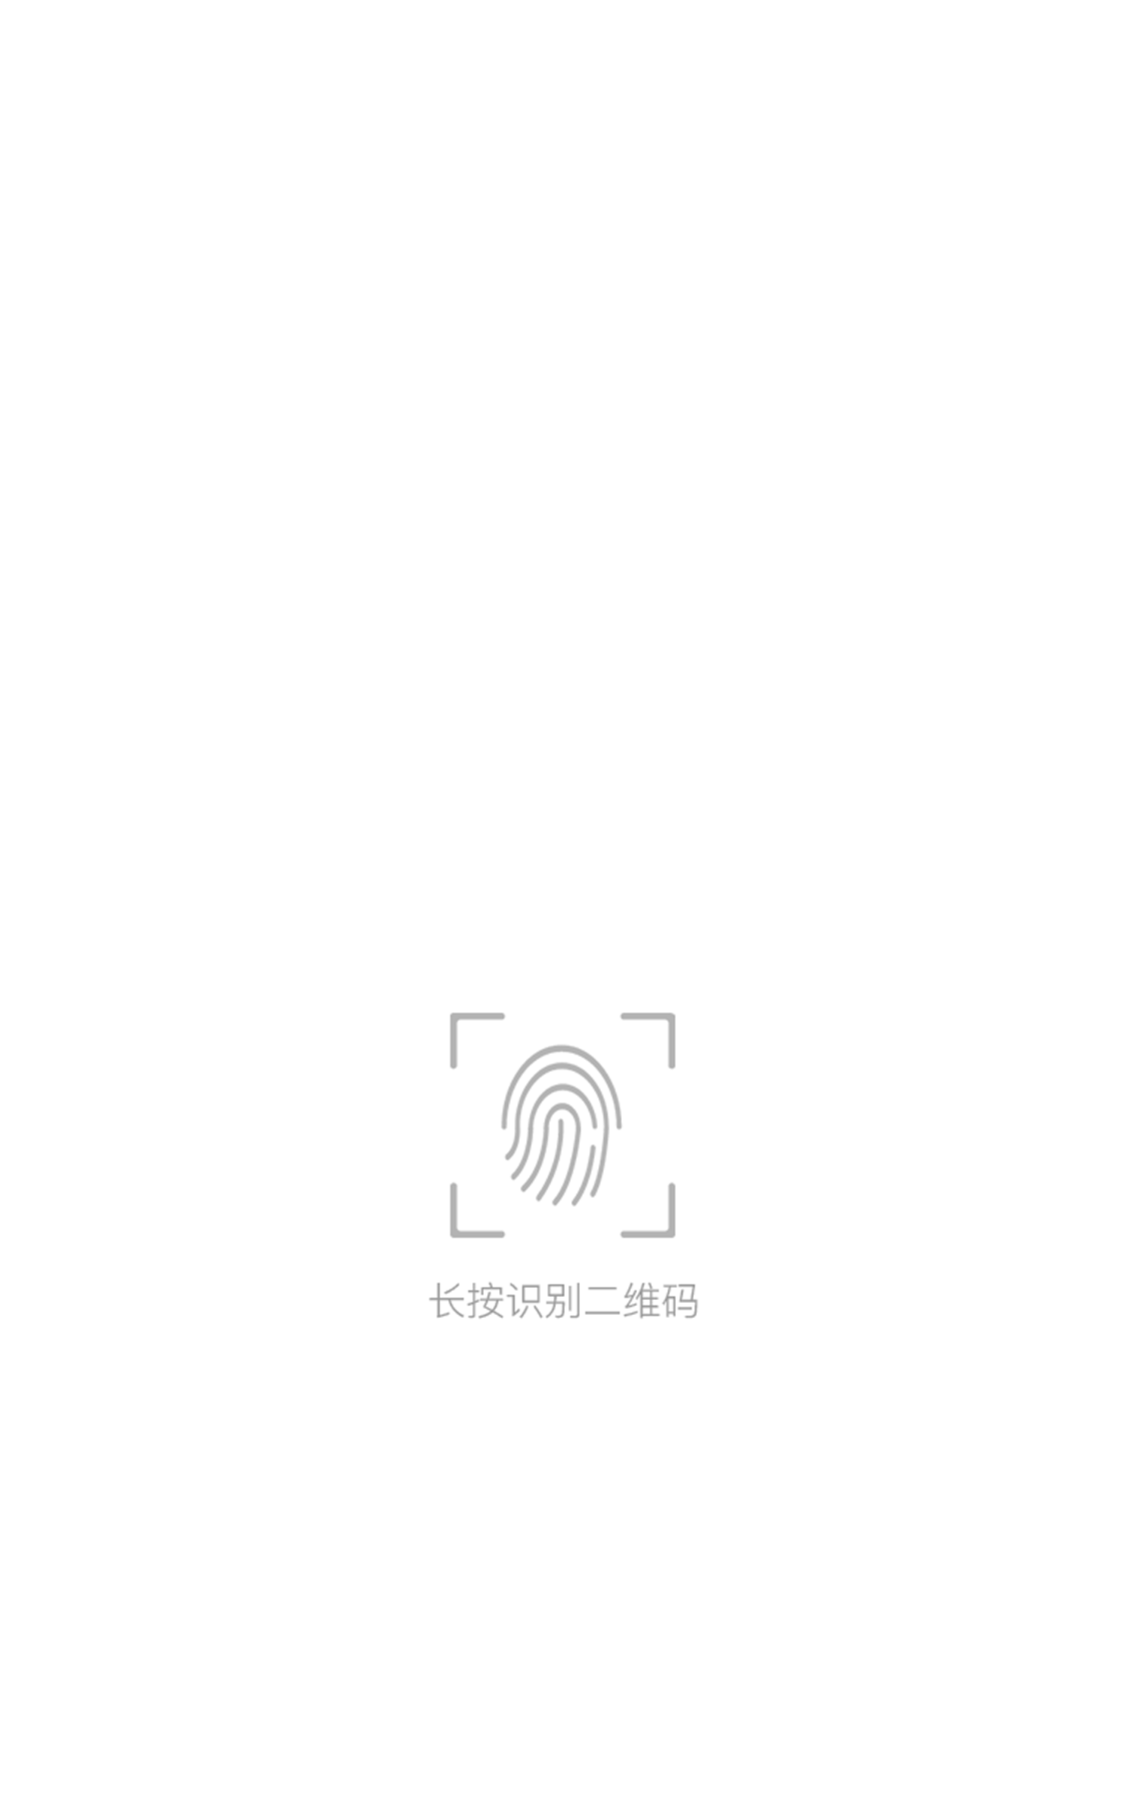
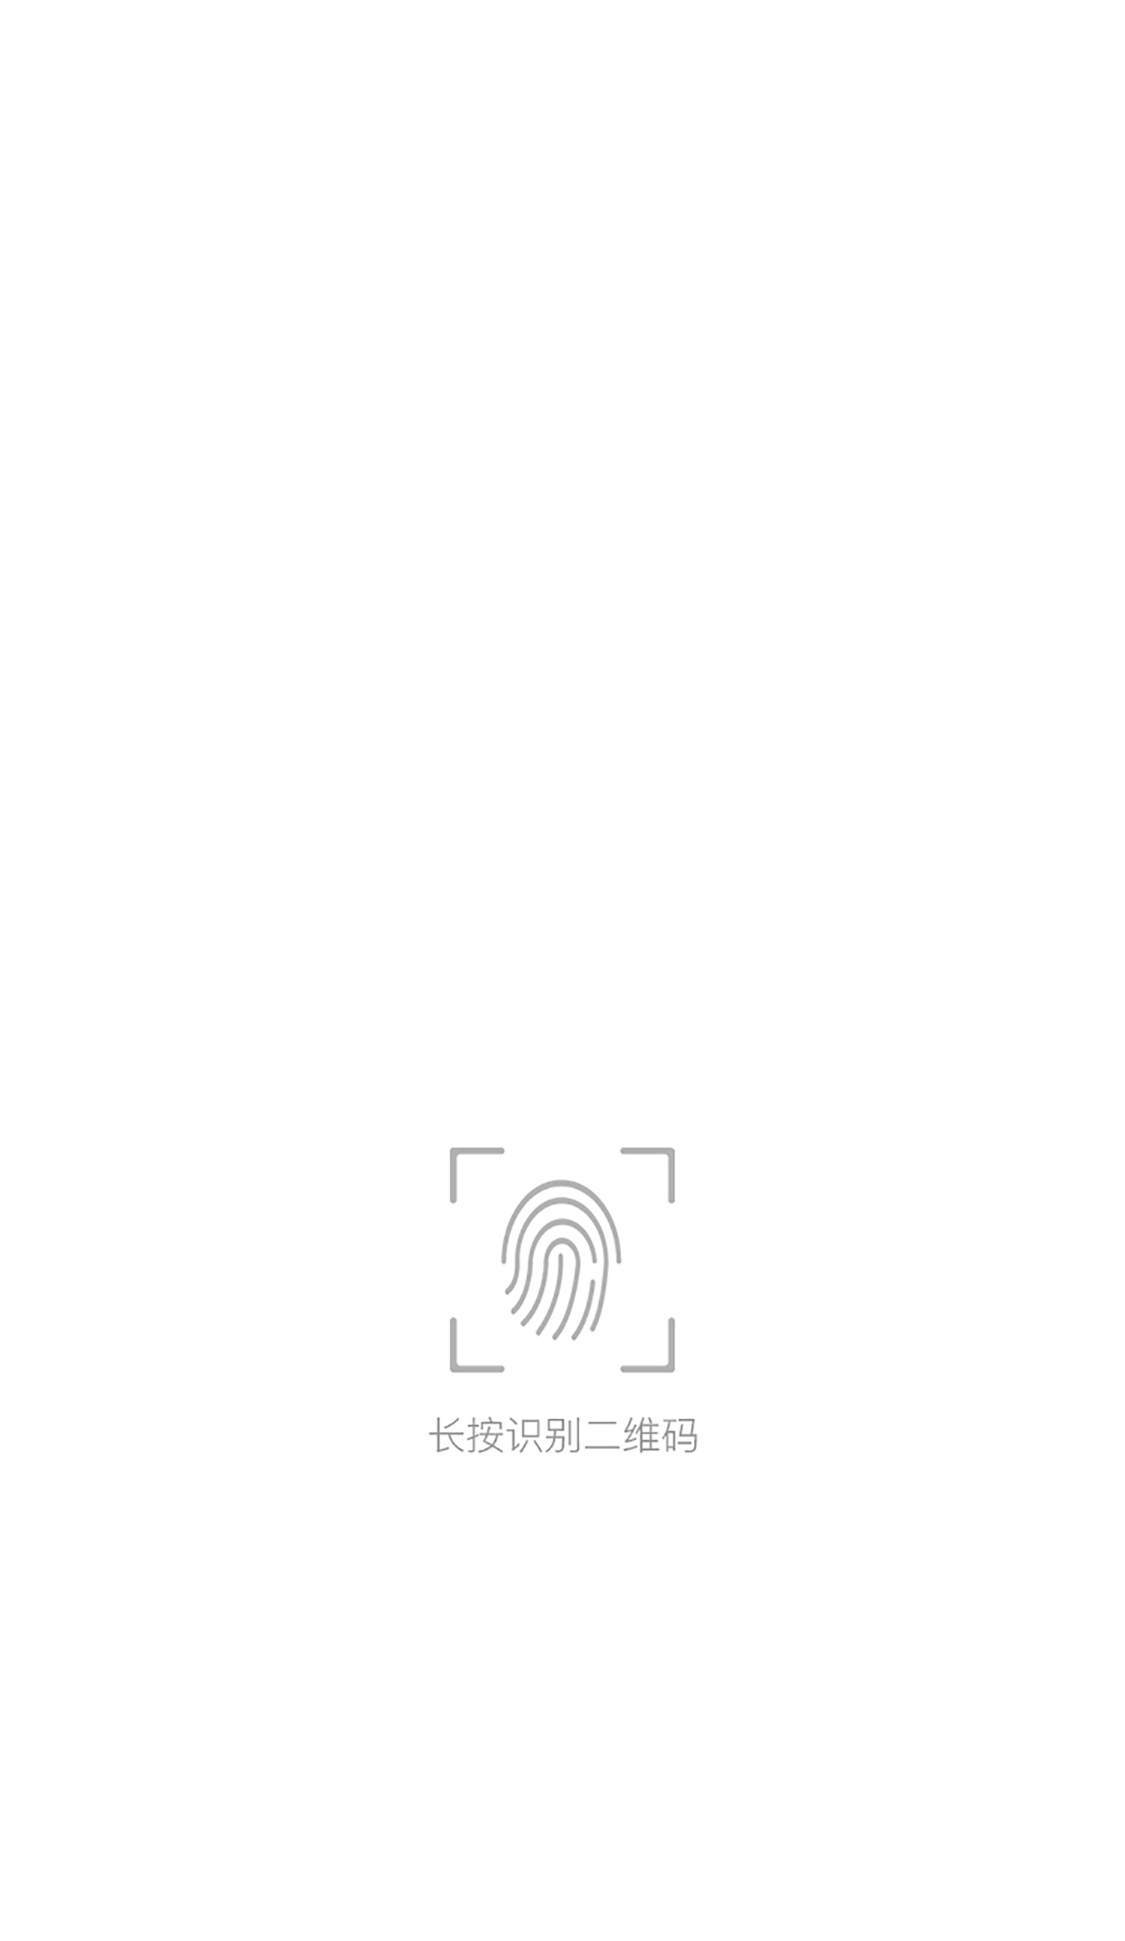
1

Changed region(s): [[0.3737, 0.5575, 0.6228, 0.7434]]

diff --git a/index.html b/index.html
@@ -28,7 +28,7 @@
     <div class="Info">
             <div class="address">
                 <img src="img/address.png" alt="">
-                <span class="InfoTxt">北京市海淀区西北旺大牛股社区一期</span>
+                <span class="InfoTxt">北京市海淀区西北旺大牛坊社区一期</span>
             </div>
             <div class="phone">
                 <img src="img/phone.png" alt="">

diff --git a/css/index.css b/css/index.css
@@ -203,7 +203,7 @@ body{
     width: 100%;
     /*height: 0.3rem;*/
     position: relative;
-    top: 55%;
+    top: 53%;
     /*bottom: 7.4%;*/
     left: 50%;
     right: 50%;
